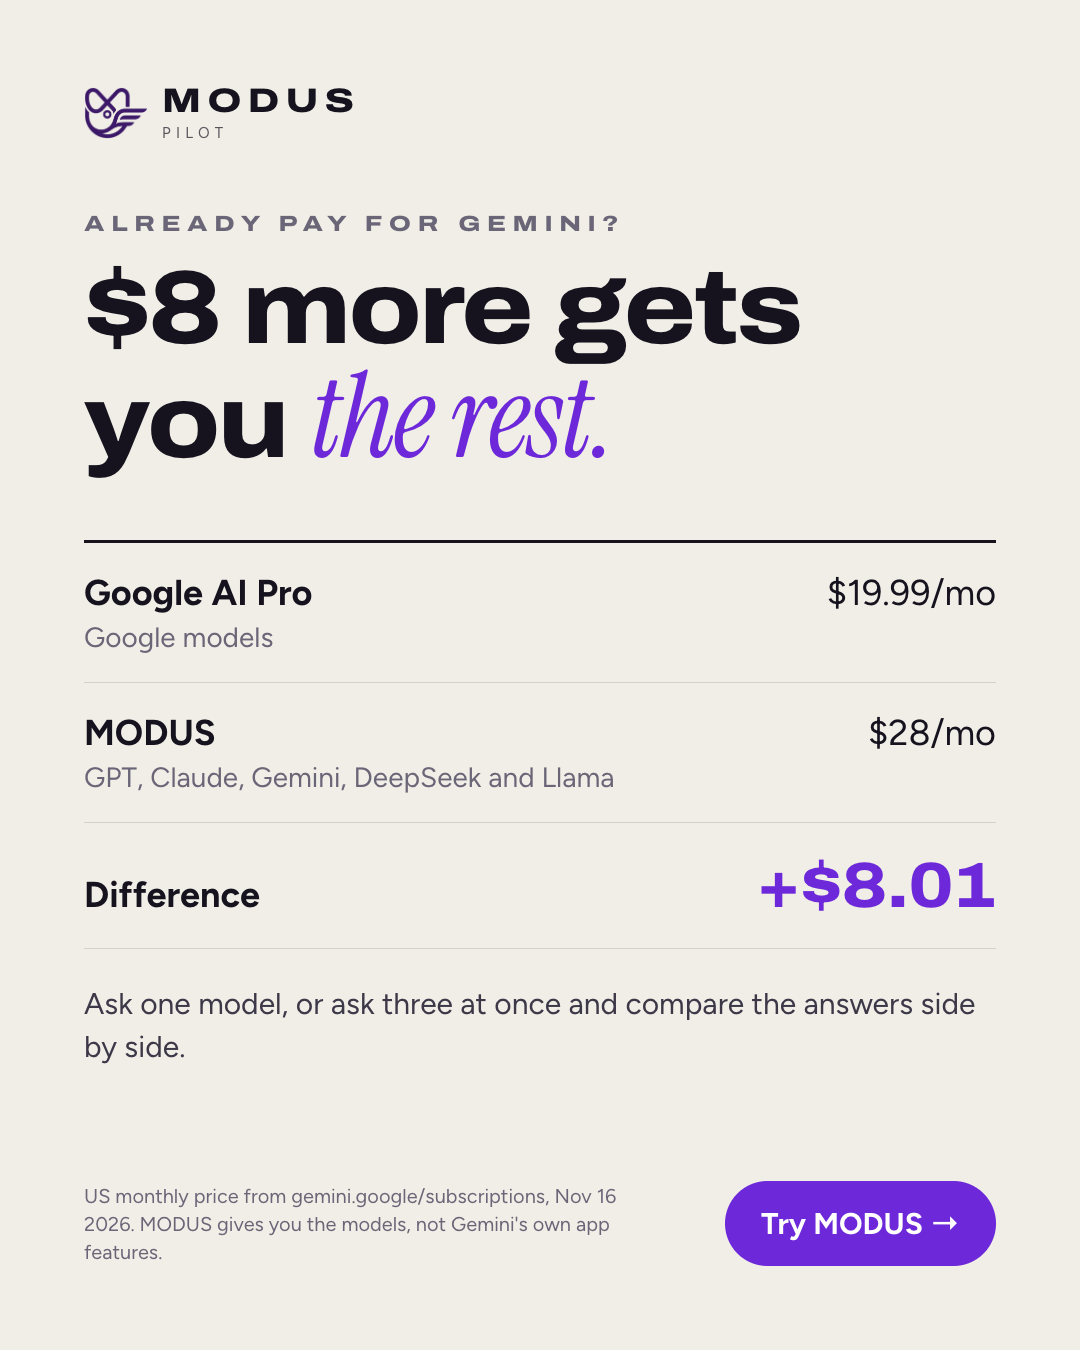
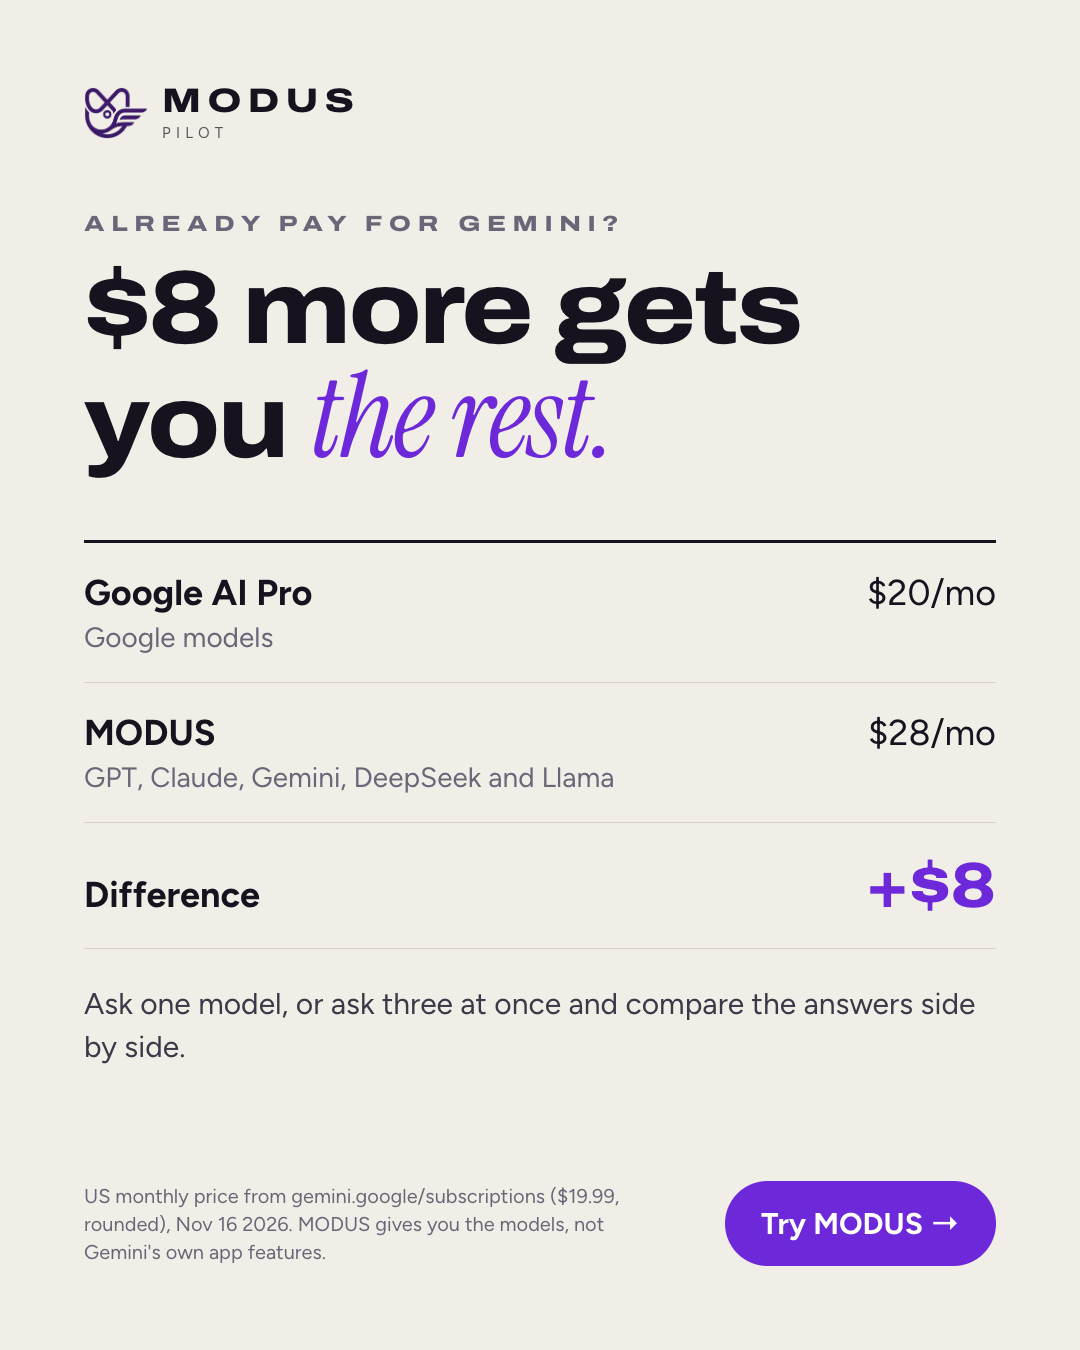
Meta ads M07: combined ChatGPT/Claude/Gemini post as main, Google AI Pro shown as $20 (rounded, disclosed)

Changed region(s): [[0.0611, 0.8711, 0.5806, 0.9333], [0.7028, 0.6222, 0.9167, 0.6844], [0.7639, 0.4044, 0.8556, 0.4667]]

diff --git a/marketing/meta-ads/batch-02/src/build.py b/marketing/meta-ads/batch-02/src/build.py
@@ -113,6 +113,41 @@ h1 .serif{color:#6d28d9;font-size:118px;letter-spacing:-.02em}
 </div>"""
     return page(css, body, size)
 
+# ---------- H2 combined: ChatGPT, Claude or Gemini in one post ----------
+def h2all(size):
+    css = """
+body{background:#f0eee6;color:#16131f}
+.tag{font-family:Archivo;font-stretch:125%;font-weight:800;font-size:21px;letter-spacing:.24em;color:#6b6578;margin-top:64px;line-height:1.5}
+h1{font-size:100px;margin-top:18px}
+h1 .serif{color:#6d28d9;font-size:114px;letter-spacing:-.02em}
+.math{margin-top:50px;border-top:3px solid #16131f}
+.li{display:flex;justify-content:space-between;align-items:center;padding:20px 0;border-bottom:1px solid #d6d1c6;font-size:34px}
+.li b{font-weight:700}
+.or{color:#8a8396;font-size:24px;font-style:italic;margin-left:12px;font-weight:500}
+.li .m{color:#6b6578;font-size:26px;margin-top:4px}
+.mod{padding:24px 0}
+.mod b{color:#6d28d9}
+.plus{font-family:Archivo;font-stretch:112%;font-weight:800;font-size:60px;color:#6d28d9}
+.spacer{flex:1}
+.cta{background:#6d28d9;color:#fff}
+.fine{font-size:20px;color:#6b6578;line-height:1.4;max-width:560px}
+.s9x16 h1{font-size:108px}.s9x16 .math{margin-top:70px}.s9x16 .li{padding:26px 0}
+"""
+    body = f"""<div class="wrap">{BRAND('#16131f')}
+<div class="tag">PAYING FOR CHATGPT, CLAUDE OR GEMINI?</div>
+<h1 class="big">$8 more gets you <span class="serif">all of them.</span></h1>
+<div class="math">
+ <div class="li"><div><b>ChatGPT Plus</b><span class="or">or</span></div><div>$20/mo</div></div>
+ <div class="li"><div><b>Claude Pro</b><span class="or">or</span></div><div>$20/mo</div></div>
+ <div class="li"><div><b>Google AI Pro</b></div><div>$20/mo</div></div>
+ <div class="li mod"><div><b>MODUS</b><div class="m">GPT, Claude, Gemini, DeepSeek and Llama</div></div><div>$28/mo</div></div>
+ <div class="li"><div><b>Difference</b></div><div class="plus">+$8</div></div>
+</div>
+<div class="spacer"></div>
+<div class="row"><div class="fine">US monthly prices from each provider's pricing page, Nov 16 2026. Google AI Pro is $19.99, rounded. MODUS gives you the models, not each company's own app features.</div><span class="cta">Try MODUS &rarr;</span></div>
+</div>"""
+    return page(css, body, size)
+
 # ---------- H3: Founder letter (DRAFT, needs his OK on every line) ----------
 def h3(size):
     css = """
@@ -142,9 +177,10 @@ p{font-size:40px;line-height:1.48;margin-top:34px;color:#2a2733}
 from functools import partial
 ADS = {
   'MODUS-06-hot-dog': h1,
+  'MODUS-07-plus-eight-all': h2all,
   'MODUS-07a-plus-eight-chatgpt': partial(h2, app='ChatGPT Plus', tag='CHATGPT', price='20', makers='OpenAI', src='chatgpt.com/pricing', diff='8', short='ChatGPT'),
   'MODUS-07b-plus-eight-claude': partial(h2, app='Claude Pro', tag='CLAUDE', price='20', makers='Anthropic', src='claude.com/pricing', diff='8', short='Claude'),
-  'MODUS-07c-plus-eight-gemini': partial(h2, app='Google AI Pro', tag='GEMINI', price='19.99', makers='Google', src='gemini.google/subscriptions', diff='8.01', short='Gemini'),
+  'MODUS-07c-plus-eight-gemini': partial(h2, app='Google AI Pro', tag='GEMINI', price='20', makers='Google', src='gemini.google/subscriptions ($19.99, rounded)', diff='8', short='Gemini'),
   'MODUS-08-founder-letter': h3,
 }
 

diff --git a/marketing/meta-ads/batch-02/COPY.md b/marketing/meta-ads/batch-02/COPY.md
@@ -21,7 +21,18 @@ Grounding: every answer, verdict and time is the real output of `/api/chat/compa
 **Headline:** Ask once. See all three answers.
 **Description:** GPT, Claude and Gemini in one app
 
-## M07a/b/c $8 more gets you the rest (price anchor, one per app)
+## M07 $8 more gets you all of them (MAIN, one post, all three apps)
+Files: `MODUS-07-plus-eight-all_*.png`
+Grounding: ChatGPT Plus $20, Claude Pro $20 billed monthly, Google AI Pro $19.99 (shown as $20, the fine print says rounded). All checked Nov 16 2026 on each pricing page. MODUS $28.
+
+**Primary text**
+1. Paying $20 for ChatGPT, Claude or Gemini? For $28 you get all three in one app, plus DeepSeek and Llama.
+2. Most people pay for one AI and wonder what the others would say. For $8 more MODUS gives you all of them and lets you ask three at once.
+
+**Headline:** $8 more gets you all of them
+**Description:** GPT, Claude and Gemini in one app
+
+## M07a/b/c Backups: one version per app (test later against M07)
 Files: `MODUS-07a-plus-eight-chatgpt_*.png`, `MODUS-07b-plus-eight-claude_*.png`, `MODUS-07c-plus-eight-gemini_*.png`
 Run all three in the same ad set. Each names one app so its users know it is about them; Meta finds who responds to which. 07a is the main one (most users).
 Grounding: prices checked Nov 16 2026: ChatGPT Plus $20 (chatgpt.com/pricing), Claude Pro $20 billed monthly (claude.com/pricing, $17 is the annual rate), Google AI Pro $19.99 (gemini.google/subscriptions). MODUS $28. Models from `apps/web/lib/models.ts`.
@@ -37,9 +48,9 @@ Headline: $8 more than ChatGPT Plus / Description: Claude, Gemini and more inclu
 Headline: $8 more than Claude Pro / Description: GPT, Gemini and more included
 
 **07c Gemini**
-1. Already paying $19.99 for Google AI Pro? For $28 you get Gemini plus GPT, Claude, DeepSeek and Llama in one app.
-2. You picked Gemini. For about $8 more you can ask GPT and Claude the same question and compare.
-Headline: About $8 more than Google AI Pro / Description: GPT, Claude and more included
+1. Already paying $20 for Google AI Pro? For $28 you get Gemini plus GPT, Claude, DeepSeek and Llama in one app.
+2. You picked Gemini. For $8 more you can ask GPT and Claude the same question and compare.
+Headline: $8 more than Google AI Pro / Description: GPT, Claude and more included
 
 Check before launch: re-check all three prices the day they go live.
 
@@ -57,7 +68,7 @@ Grounding: YOU. Every line is in your voice and has to be true for you before it
 ---
 
 ## Launch set (my pick)
-Batch-01 M01 (the math), batch-02 M06 (hot dog), batch-02 M07a/b/c ($8 more, all three), plus M08 once you approve the text. Batch-01 M05 is the retargeting ad.
+Batch-01 M01 (the math), batch-02 M06 (hot dog), batch-02 M07 ($8 more, all three apps in one post), plus M08 once you approve the text. Batch-01 M05 is the retargeting ad.
 
 ## Highest ceiling, not built
 A 20 to 30 second selfie video of you asking MODUS the hot dog question and reacting to the split. Founder-on-camera video is the top Meta format for cold traffic. I can write the script.
